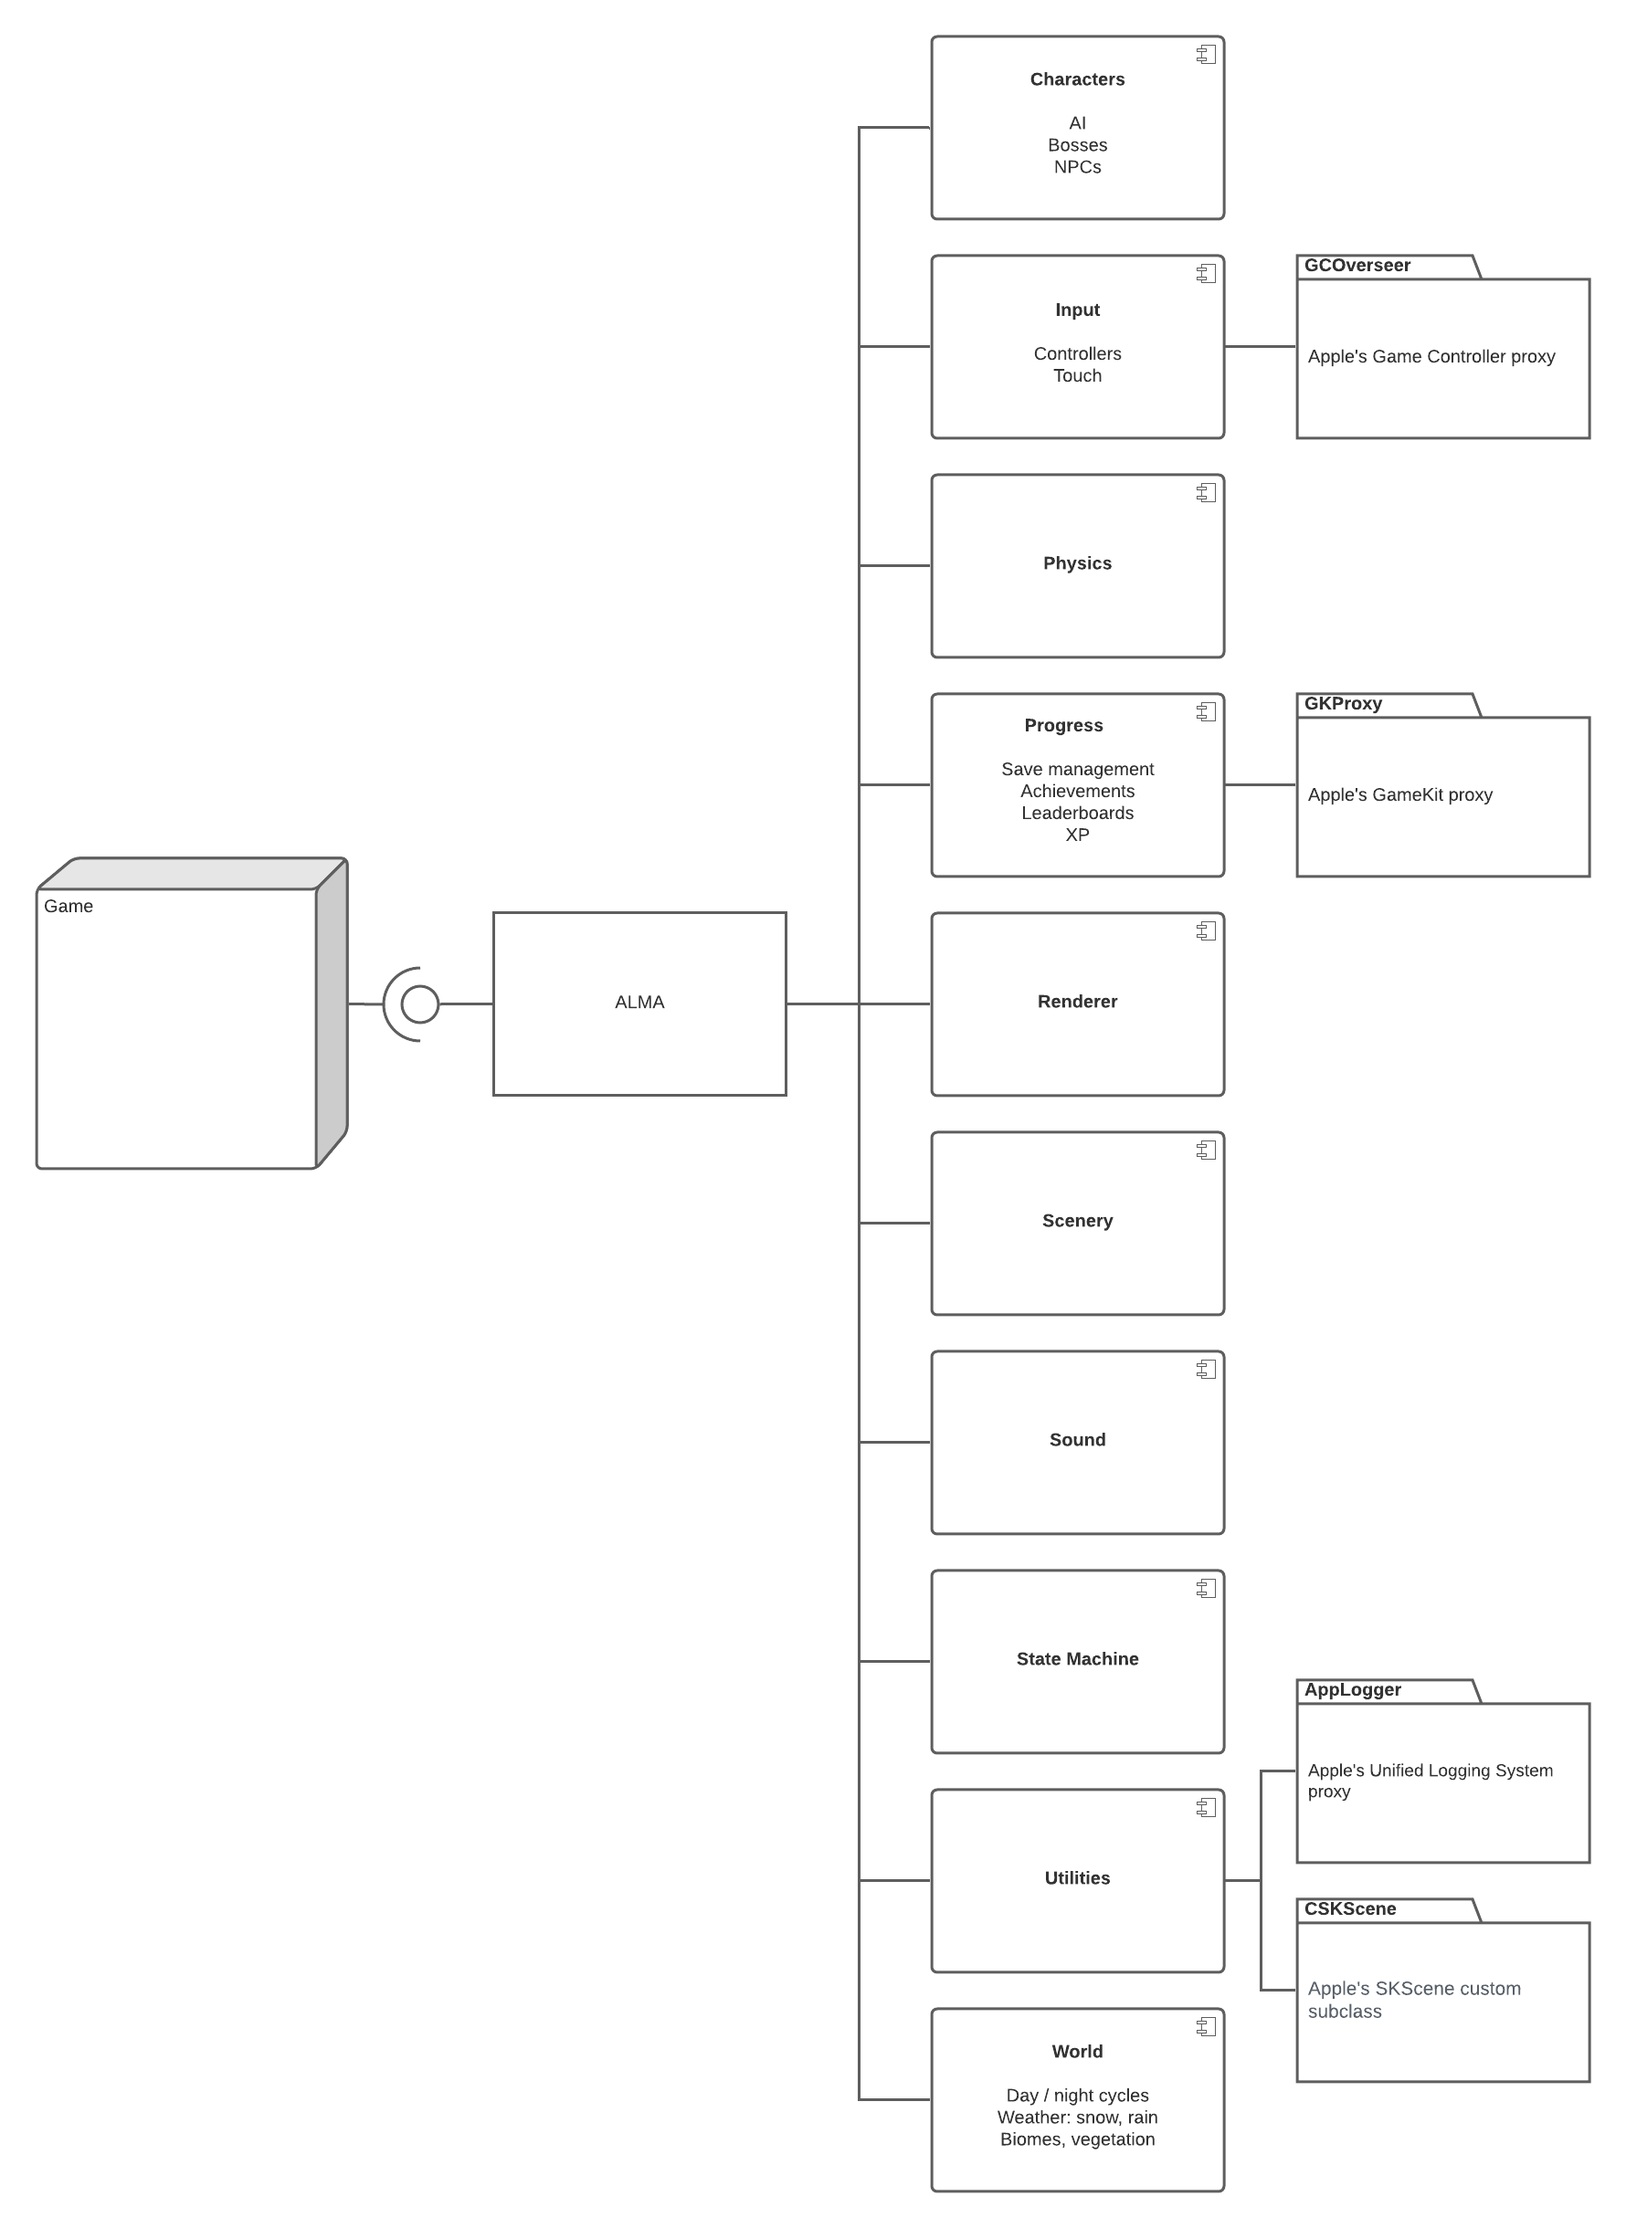
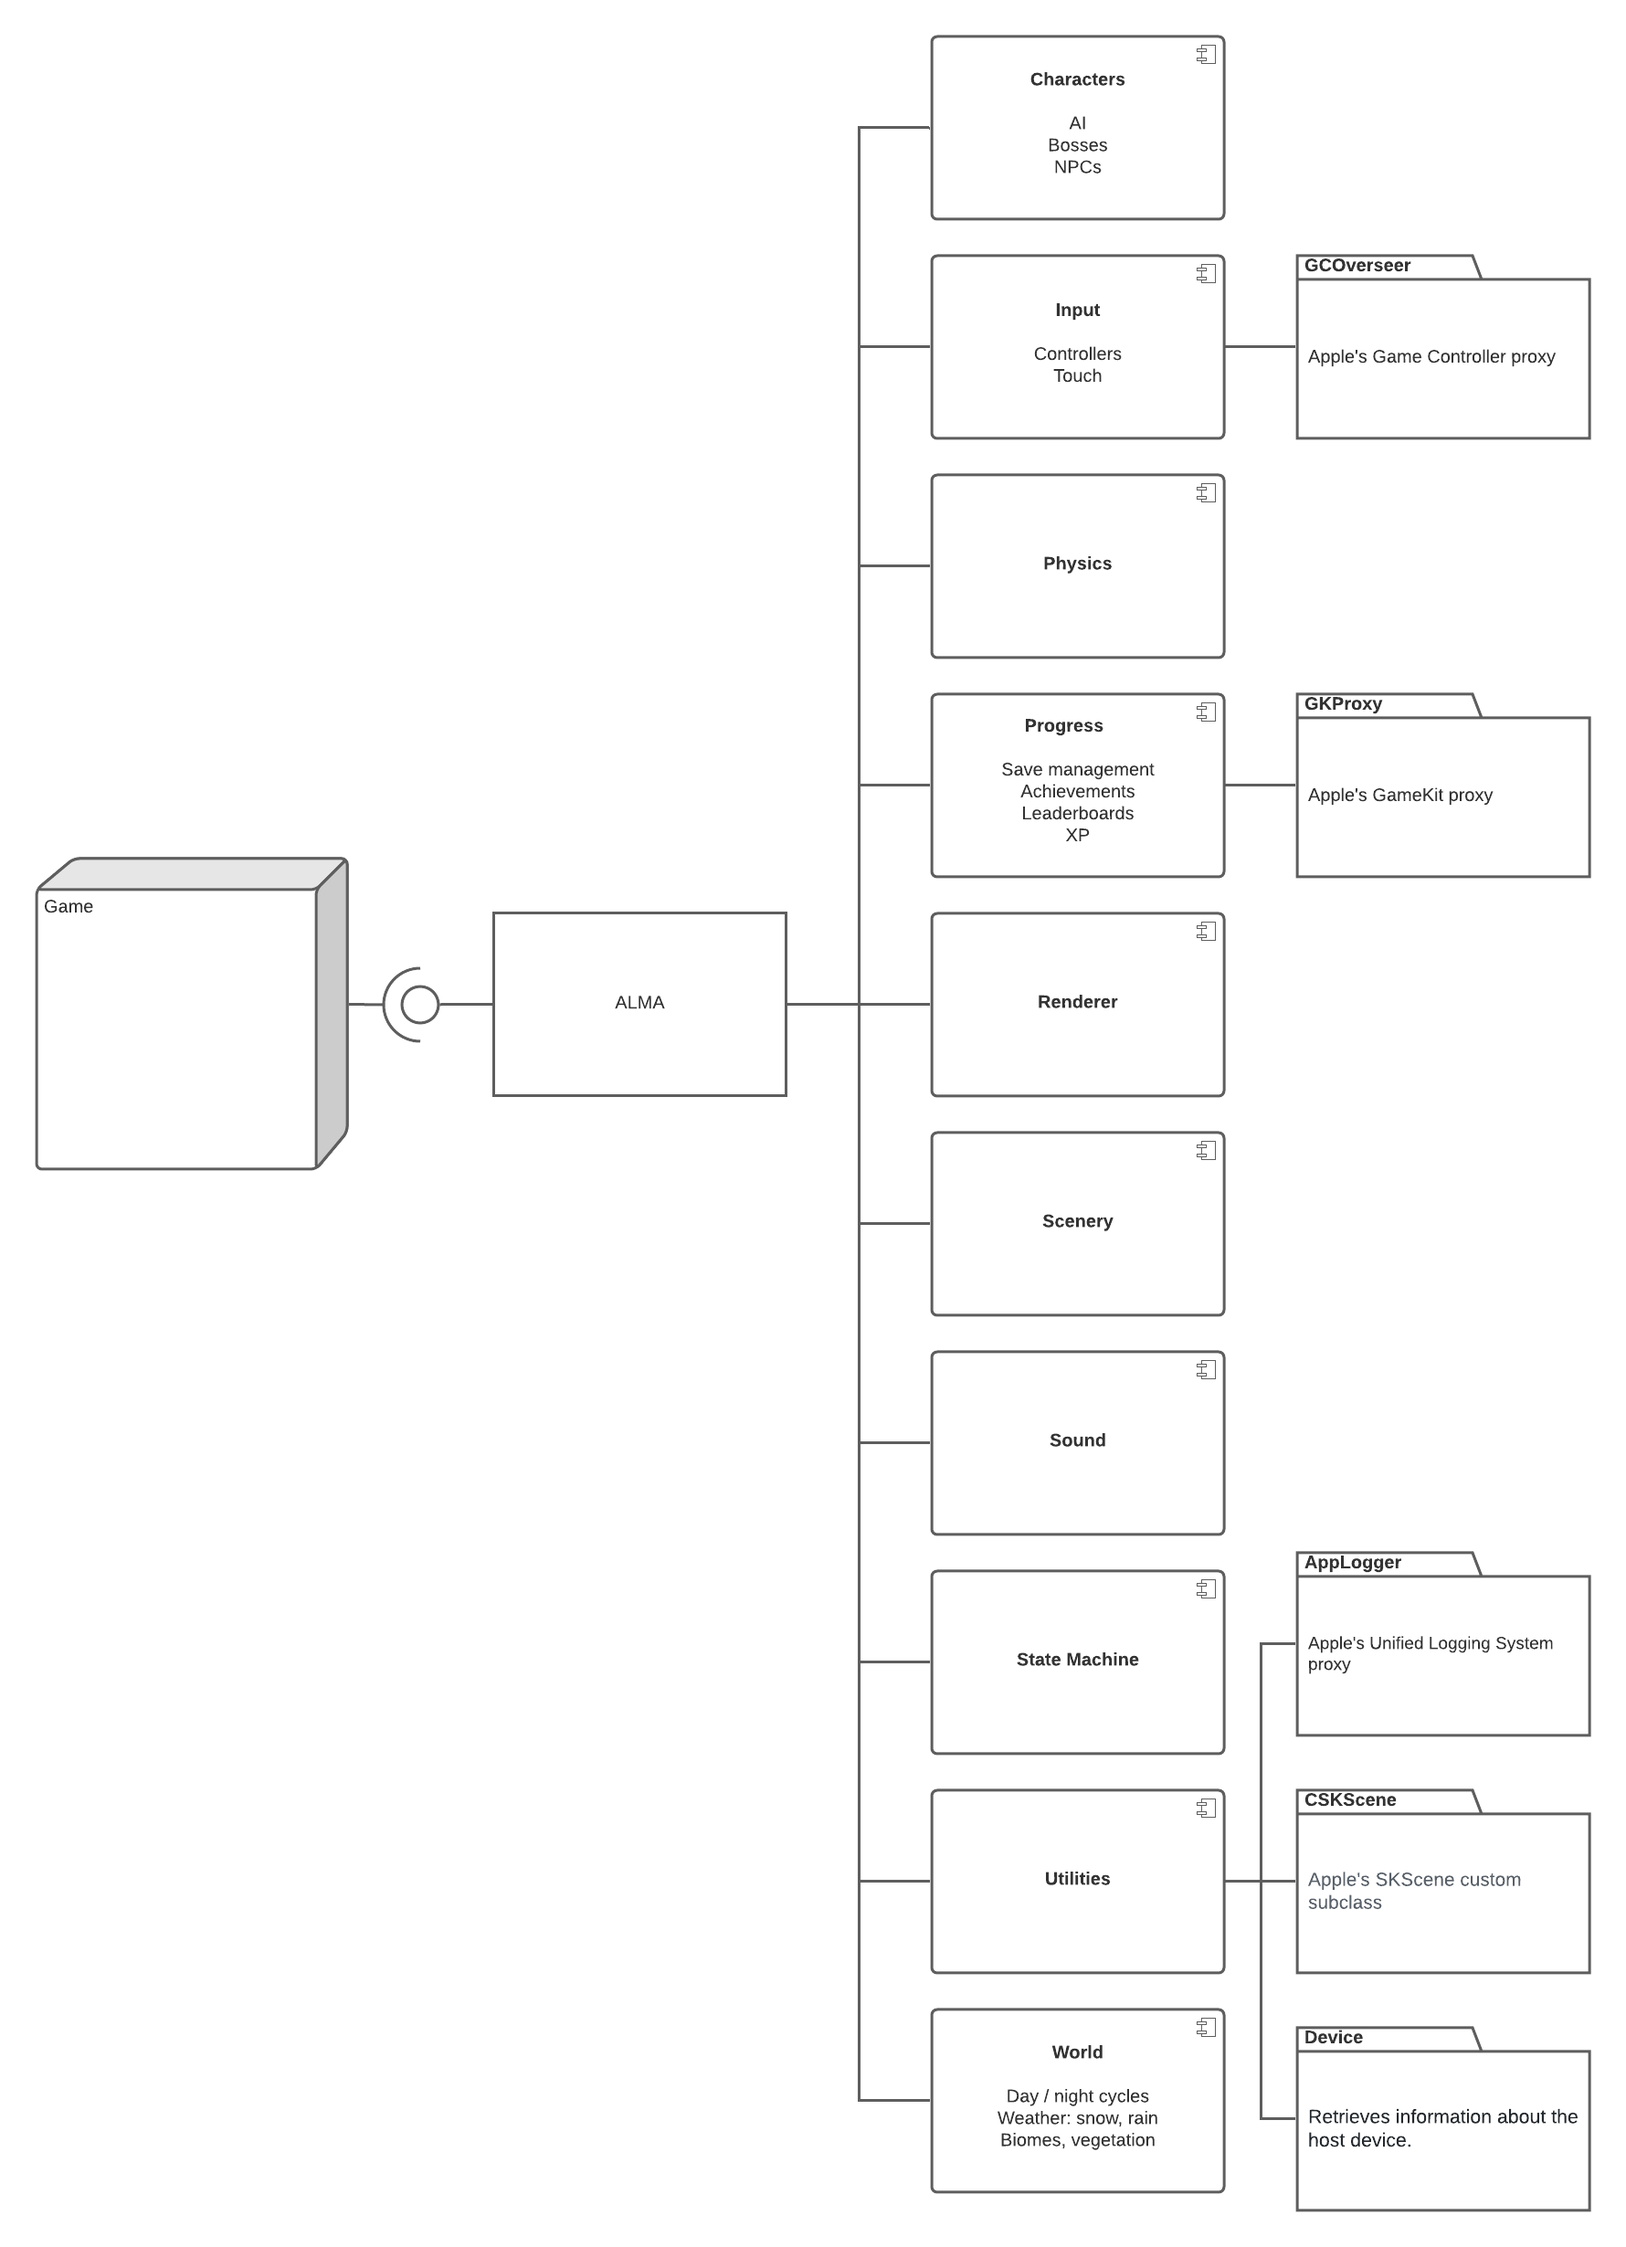
Add "Device" package  dependency
- Update component diagram.

diff --git a/Package.swift b/Package.swift
@@ -18,14 +18,16 @@ let package = Package(
     ],
     dependencies: [
         .package(name: "AppLogger", url: "https://github.com/backslash-f/applogger", from: "1.0.0"),
-        .package(name: "CSKScene", url: "https://github.com/backslash-f/cskscene", from: "0.0.1")
+        .package(name: "CSKScene", url: "https://github.com/backslash-f/cskscene", from: "0.0.1"),
+        .package(name: "Device", url: "https://github.com/backslash-f/device", from: "1.0.0")
     ],
     targets: [
         .target(
             name: "ALMA",
             dependencies: [
                 "AppLogger",
-                "CSKScene"
+                "CSKScene",
+                "Device"
             ],
             exclude:["Resources"]
         ),
